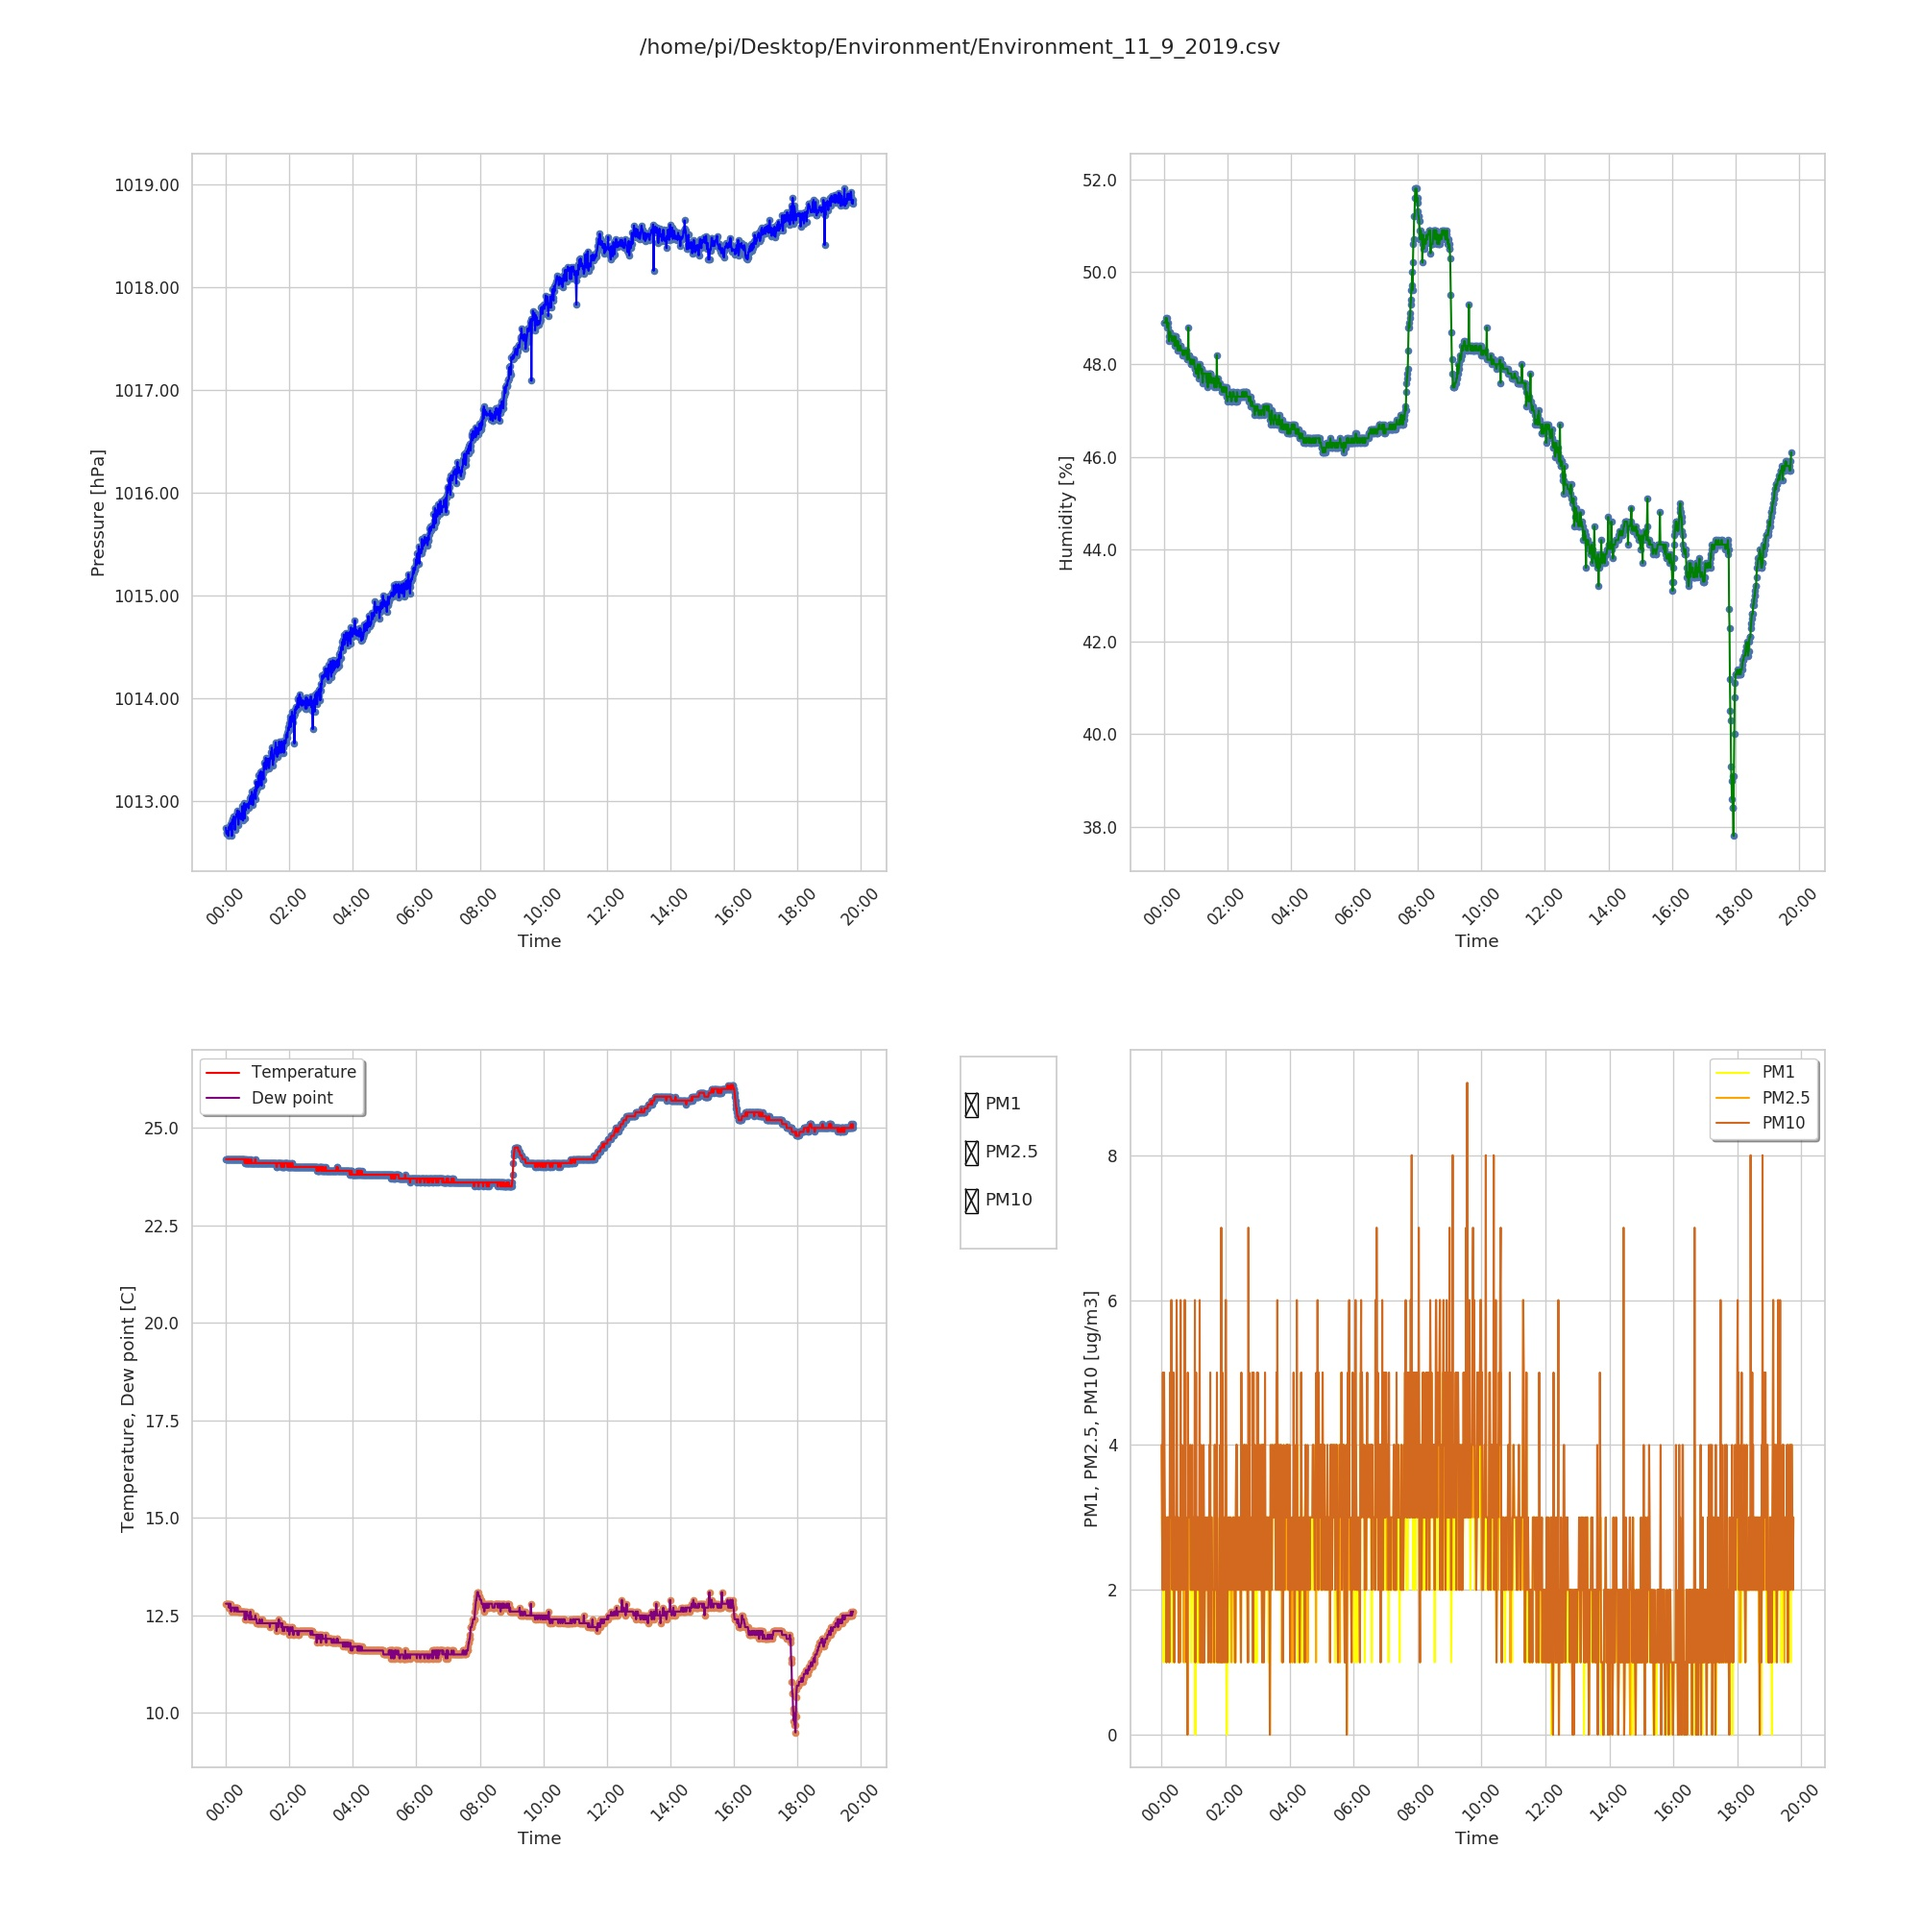
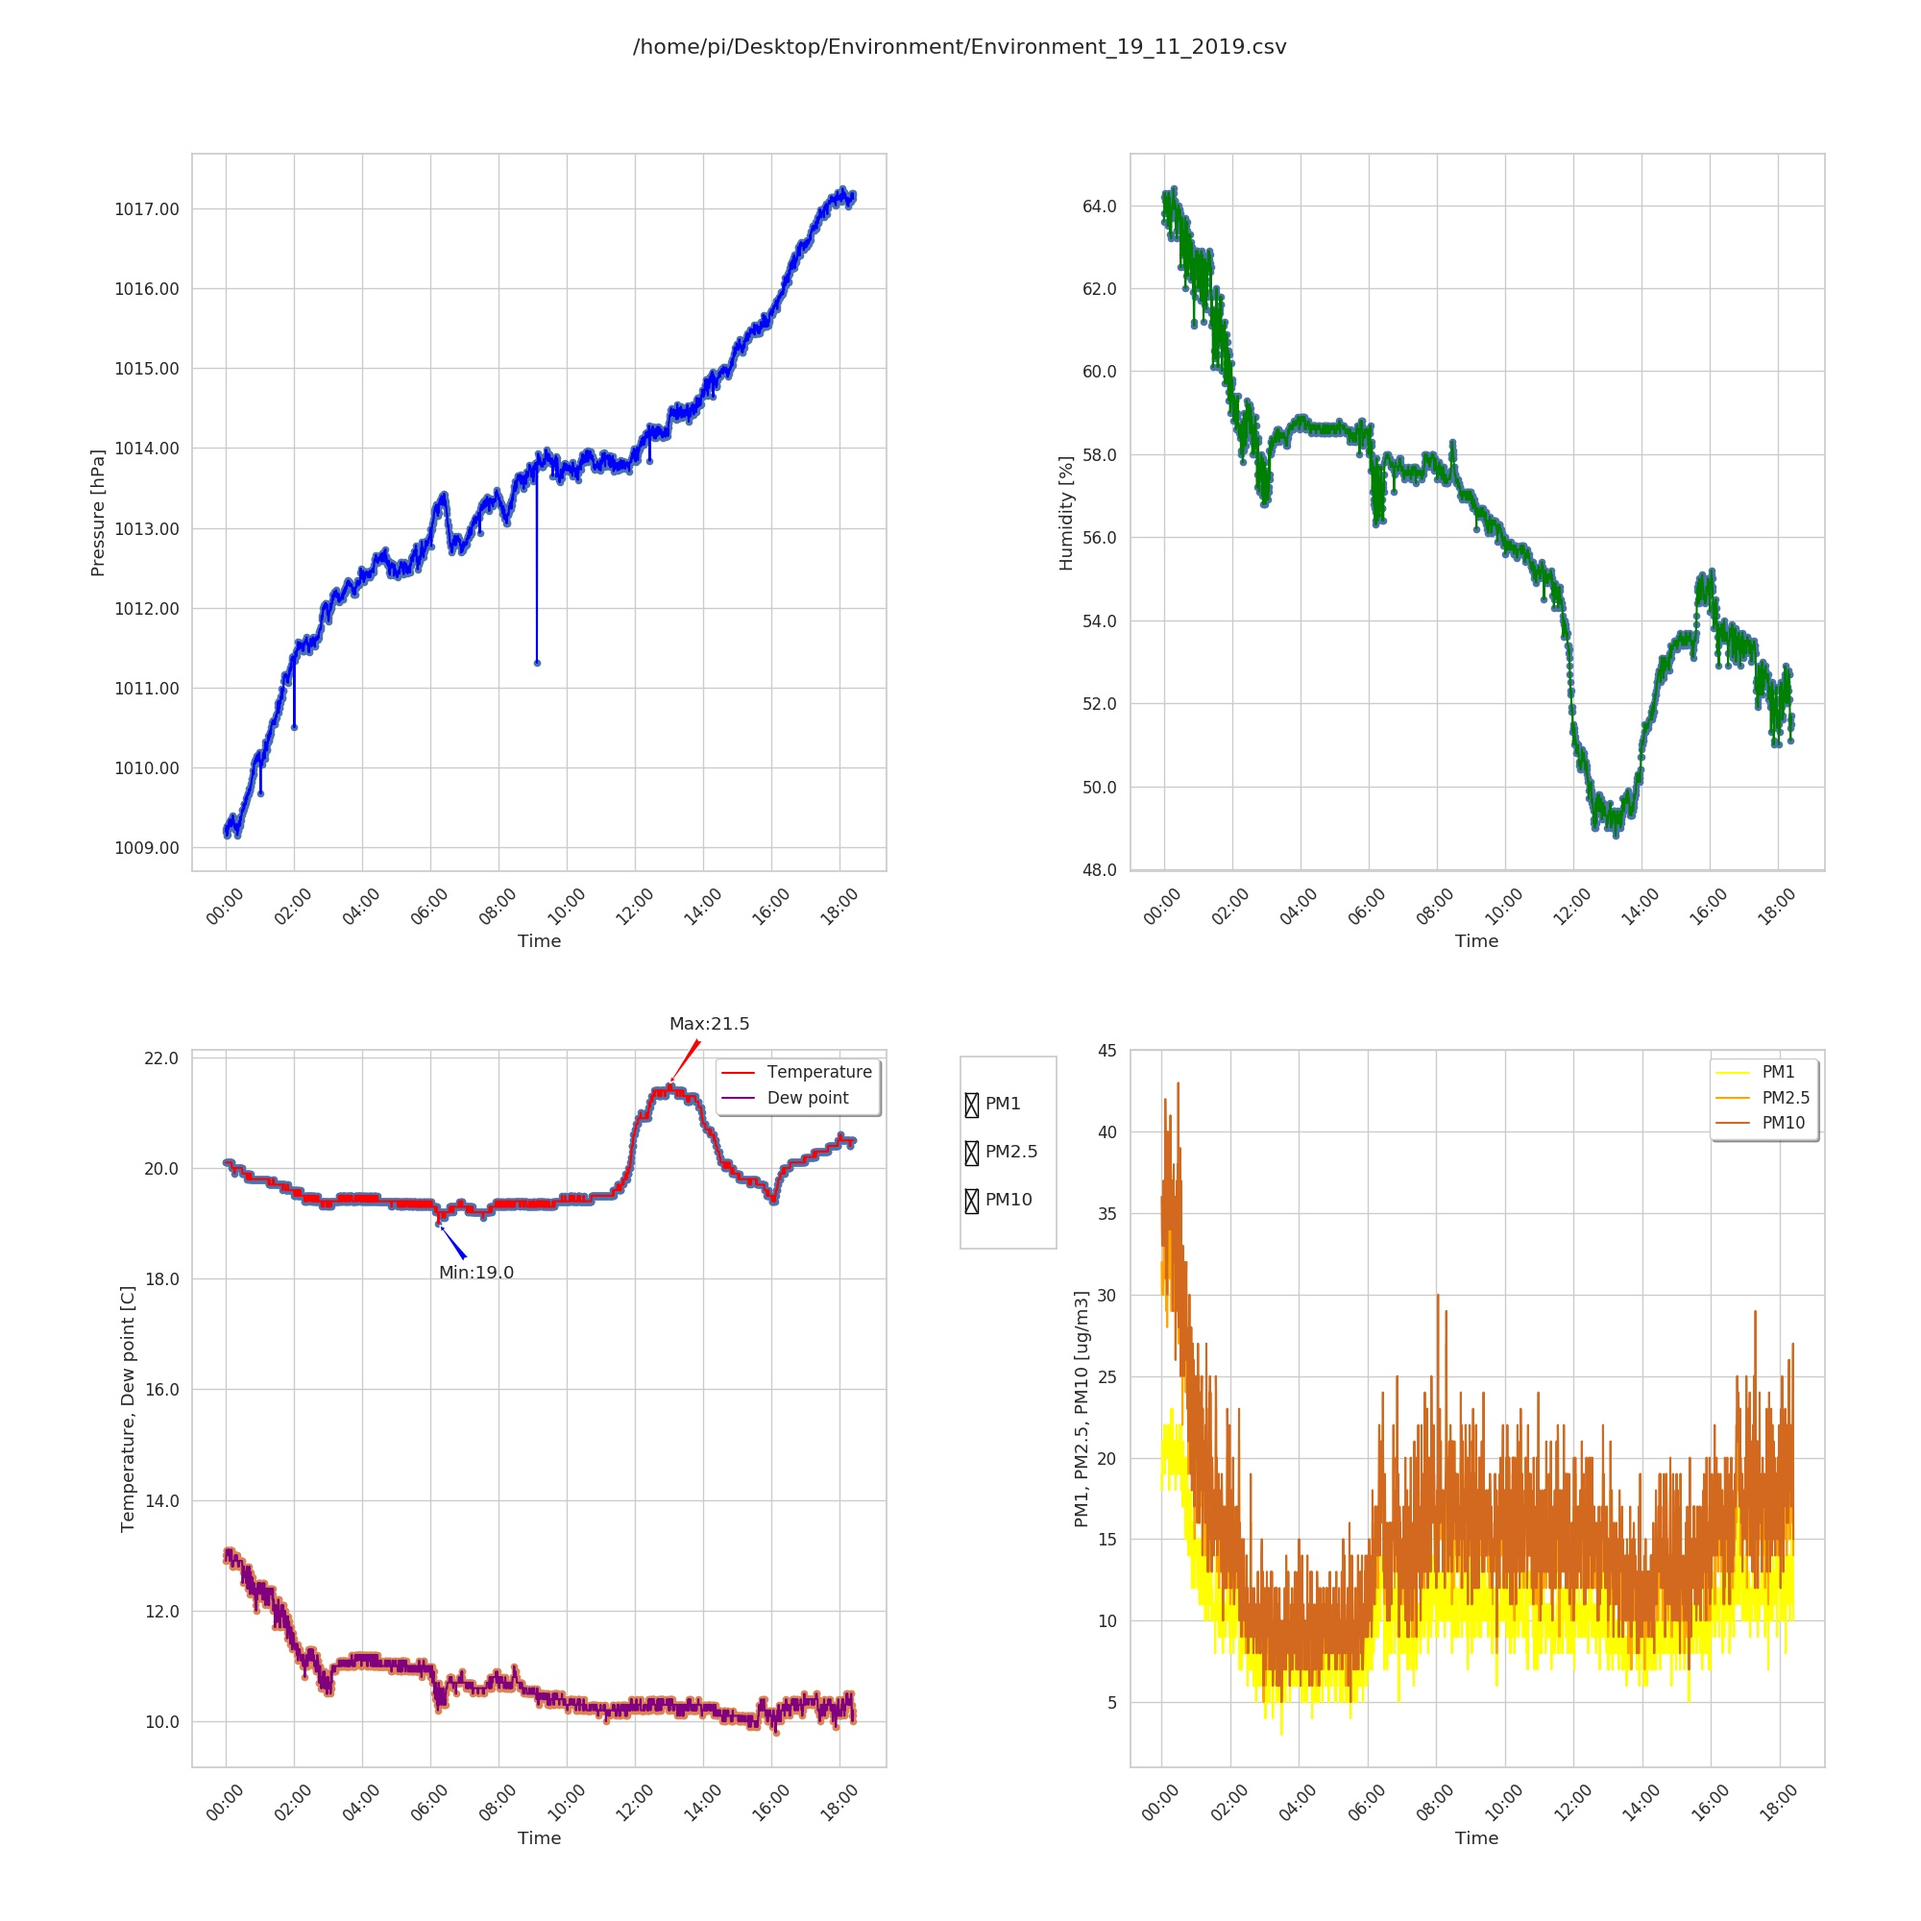
min/max arrow style changed, plots image updated

diff --git a/logs_statistics.py b/logs_statistics.py
@@ -191,10 +191,6 @@ for i in range(len(logs)):
                 logs[i]['Dew_point'], C, label = '_Dew point')
 
 
-    ax3.xaxis.set_major_formatter(timeFmt)
-    ax3.yaxis.set_major_formatter(temp_humFmt)
-    legend = ax3.legend( shadow=True)
-
     try:
         tempMax = {'position' : None , 'value' : None}
         tempMin = {'position' : None , 'value' : None}
@@ -205,11 +201,16 @@ for i in range(len(logs)):
         tempMin['value'] = logs[i]['Temperature'].min()
         tempMin['position'] = logs[i]['Temperature'].idxmin()
 
-        ax3.annotate('Max:{:01}'.format(tempMax['value']), xy=(tempMax['position'], tempMax['value']), arrowprops=dict(facecolor='red'))
-        ax3.annotate('Min:{:01}'.format(tempMin['value']), xy=(tempMin['position'], tempMin['value']), xytext=(tempMin['position'],tempMin['value']-1), arrowprops=dict(facecolor='blue'))
+        ax3.annotate('Max:{:01}'.format(tempMax['value']), xy=(tempMax['position'], tempMax['value']), xytext=(tempMax['position'],tempMax['value']+1), arrowprops=dict(facecolor='red', arrowstyle ='fancy'))
+        ax3.annotate('Min:{:01}'.format(tempMin['value']), xy=(tempMin['position'], tempMin['value']), xytext=(tempMin['position'],tempMin['value']-1), arrowprops=dict(facecolor='blue', arrowstyle ='fancy'))
 
     except:
         print("Error: couldn't annotate plot with max and/or min value")
+        
+    ax3.xaxis.set_major_formatter(timeFmt)
+    ax3.yaxis.set_major_formatter(temp_humFmt)
+    legend = ax3.legend(shadow=True)
+
 
 
     # rotate tick labels
